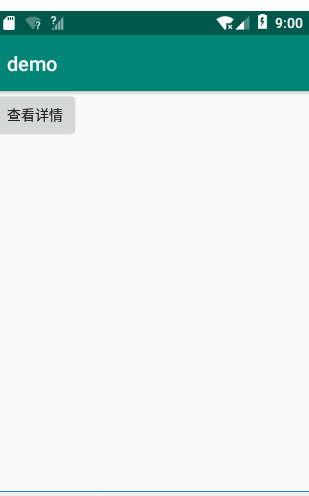
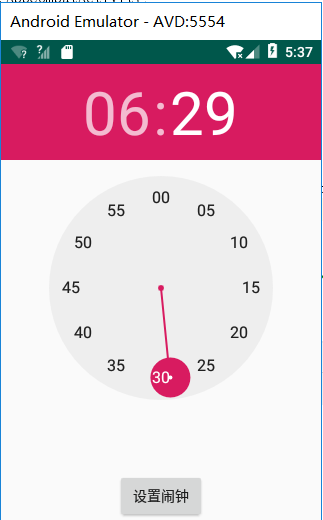
#4 #1714080902220 第4次实验

diff --git a/students/soft1714080902220/实验四/实验文件/Soft1714080902220MainActivity.java b/students/soft1714080902220/实验四/实验文件/Soft1714080902220MainActivity.java
@@ -1,0 +1,49 @@
+package edu.hzuapps.androidlabs.demo2;
+
+import android.app.Activity;
+import android.app.AlarmManager;
+import android.app.PendingIntent;
+import android.content.Context;
+import android.content.Intent;
+import android.os.Bundle;
+import android.view.View;
+import android.widget.Button;
+import android.widget.TimePicker;
+import android.widget.Toast;
+
+import java.util.Calendar;
+
+public class Soft1714080902220MainActivity extends Activity {
+    TimePicker timepicker; 			// 时间拾取器
+    Calendar c; 					// 日历对象
+
+    @Override
+    protected void onCreate(Bundle savedInstanceState) {
+        super.onCreate(savedInstanceState);
+        setContentView(R.layout.activity_main);
+        c=Calendar.getInstance();                  //获取日历对象
+        timepicker = (TimePicker)findViewById(R.id.timePicker1);            // 获取时间拾取组件
+        timepicker.setIs24HourView(true);                            // 设置使用24小时制
+        Button button1 = (Button) findViewById(R.id.set); 					// 获取“设置闹钟”按钮
+        // 为“设置闹钟”按钮添加单击事件监听器
+        button1.setOnClickListener(new View.OnClickListener() {
+            @Override
+            public void onClick(View v) {
+                Intent intent = new Intent(Soft1714080902220MainActivity.this,
+                        Soft1714080902220AlarmActivity.class);                            // 创建一个Intent对象
+                PendingIntent pendingIntent = PendingIntent.getActivity(
+                        Soft1714080902220MainActivity.this, 0, intent, 0);                    // 获取显示闹钟的PendingIntent对象
+                // 获取AlarmManager对象
+                AlarmManager alarm = (AlarmManager) getSystemService(Context.ALARM_SERVICE);
+                c.set(Calendar.HOUR_OF_DAY, timepicker.getCurrentHour());    // 设置闹钟的小时数
+                c.set(Calendar.MINUTE, timepicker.getCurrentMinute());        // 设置闹钟的分钟数
+                c.set(Calendar.SECOND,0);                                      // 设置闹钟的秒数
+                alarm.set(AlarmManager.RTC_WAKEUP, c.getTimeInMillis(),
+                        pendingIntent);                                // 设置一个闹钟
+                Toast.makeText(Soft1714080902220MainActivity.this, "闹钟设置成功", Toast.LENGTH_SHORT)
+                        .show();                                    // 显示一个消息提示
+            }
+        });
+
+    }
+}

diff --git a/students/soft1714080902220/实验四/实验文件/Soft1714080902220AlarmActivity.java b/students/soft1714080902220/实验四/实验文件/Soft1714080902220AlarmActivity.java
@@ -1,0 +1,25 @@
+package edu.hzuapps.androidlabs.demo2;
+
+import android.content.DialogInterface;
+import android.support.v7.app.AlertDialog;
+import android.support.v7.app.AppCompatActivity;
+import android.os.Bundle;
+
+public class Soft1714080902220AlarmActivity extends AppCompatActivity {
+
+    @Override
+    protected void onCreate(Bundle savedInstanceState) {
+        super.onCreate(savedInstanceState);
+        AlertDialog alert=new AlertDialog.Builder(this).create();
+        alert.setIcon(R.drawable.alarm);
+        alert.setTitle("传递正能量");
+        alert.setMessage("要么出众，要么出局");
+        alert.setButton(DialogInterface.BUTTON_POSITIVE, "确定", new DialogInterface.OnClickListener() {
+            @Override
+            public void onClick(DialogInterface dialog, int which) {
+
+            }
+        });
+        alert.show();
+    }
+}
